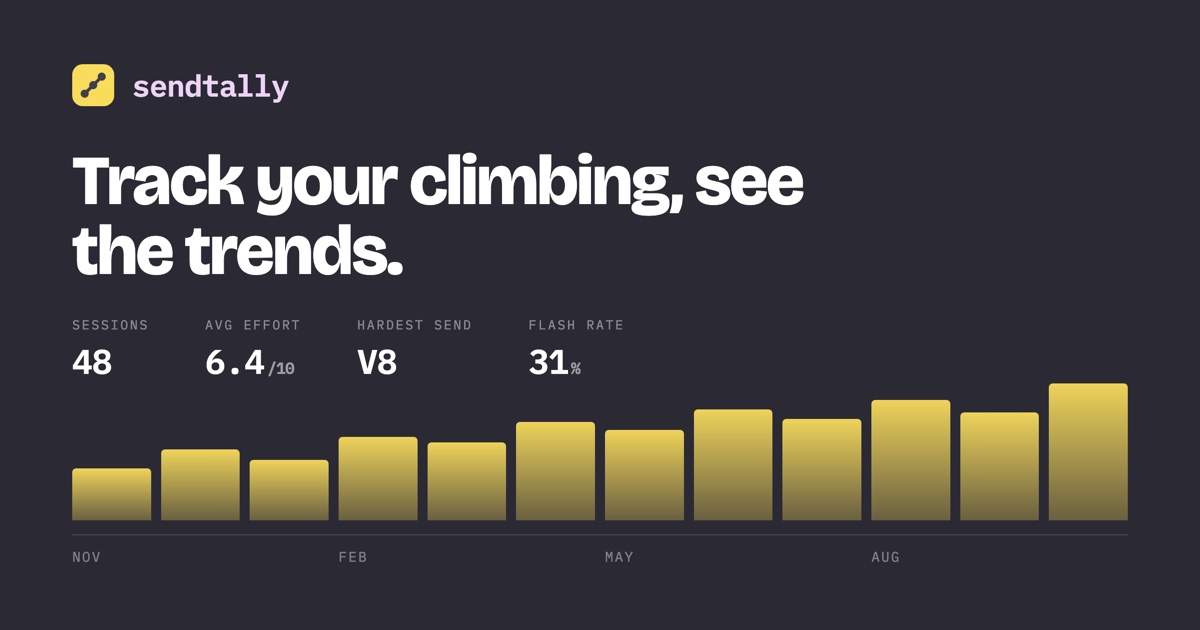
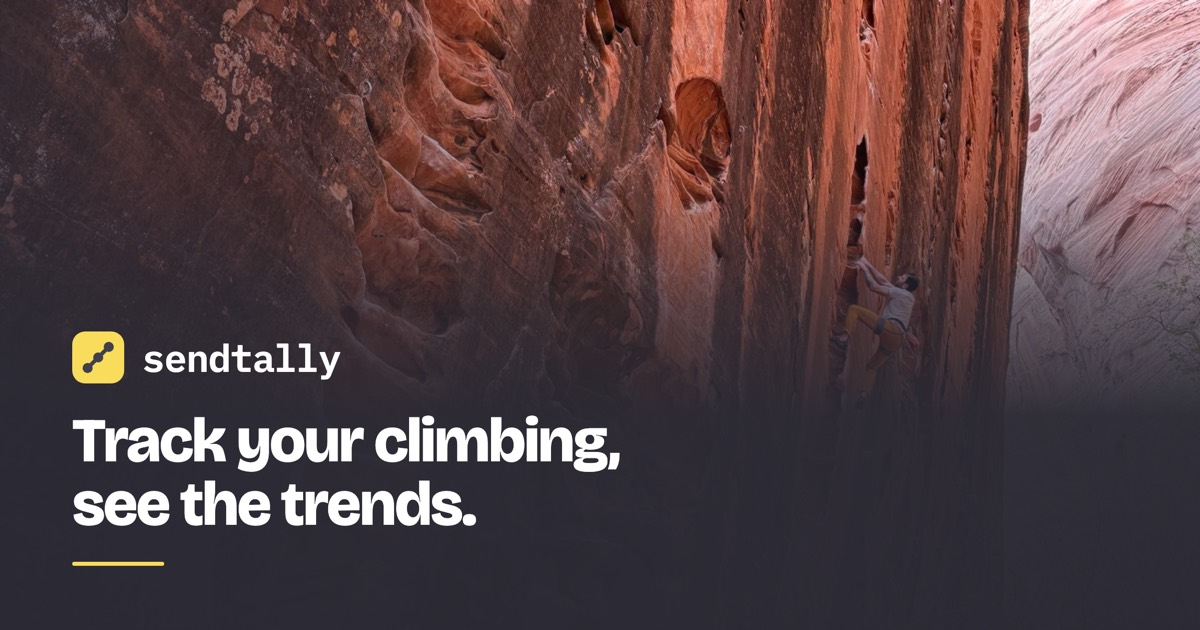
feat(web): put the brand lockup over the climbing photo in the link unfurl
The unfurl was a flat trend card. This keeps the card branded but gives it
the photo people actually respond to: the sandstone wall full-bleed, a
gunmetal scrim ramping up from the bottom-left, and the mark, wordmark and
headline sitting on it with full contrast.

Claude-Session: https://claude.ai/code/session_01AuwmfQRUtNJf15nRXuXgtG

diff --git a/apps/web/og/card.html b/apps/web/og/card.html
@@ -25,14 +25,46 @@
         overflow: hidden;
       }
       .b {
+        position: relative;
         width: 1200px;
         height: 630px;
         background: #2b2a34;
         color: #ffffff;
         font-family: "IBM Plex Sans", system-ui, sans-serif;
-        padding: 64px 72px;
-        display: flex;
-        flex-direction: column;
+        overflow: hidden;
+      }
+      .photo {
+        position: absolute;
+        inset: 0;
+        width: 100%;
+        height: 100%;
+        object-fit: cover;
+        object-position: 62% 72%;
+      }
+      .scrim {
+        position: absolute;
+        inset: 0;
+        background:
+          linear-gradient(
+            to top,
+            rgba(43, 42, 52, 0.99) 0%,
+            rgba(43, 42, 52, 0.97) 34%,
+            rgba(43, 42, 52, 0.7) 52%,
+            rgba(43, 42, 52, 0.18) 72%,
+            rgba(43, 42, 52, 0) 100%
+          ),
+          linear-gradient(
+            to right,
+            rgba(43, 42, 52, 0.72) 0%,
+            rgba(43, 42, 52, 0.12) 48%,
+            rgba(43, 42, 52, 0) 70%
+          );
+      }
+      .plate {
+        position: absolute;
+        left: 72px;
+        right: 72px;
+        bottom: 64px;
       }
       .lockup {
         display: flex;
@@ -42,117 +74,61 @@
       .wordmark {
         font-family: "IBM Plex Mono", monospace;
         font-weight: 600;
-        font-size: 30px;
+        font-size: 38px;
         letter-spacing: -0.02em;
-        color: #eed3f8;
+        color: #ffffff;
       }
       .b-head {
         font-family: "Bricolage Grotesque", "IBM Plex Sans", sans-serif;
         font-weight: 800;
-        font-size: 70px;
-        line-height: 1;
+        font-size: 62px;
+        line-height: 1.02;
         letter-spacing: -0.03em;
-        margin: 40px 0 0;
-        max-width: 17ch;
+        margin: 26px 0 0;
+        max-width: 16ch;
+        text-wrap: balance;
       }
-      .b-stats {
-        display: flex;
-        gap: 56px;
-        margin-top: 30px;
-      }
-      .k {
+      .b-sub {
         font-family: "IBM Plex Mono", monospace;
-        font-size: 13px;
+        font-size: 17px;
         letter-spacing: 0.14em;
         text-transform: uppercase;
-        color: rgba(255, 255, 255, 0.45);
+        color: rgba(255, 255, 255, 0.62);
+        margin-top: 22px;
       }
-      .v {
-        font-family: "IBM Plex Mono", monospace;
-        font-weight: 600;
-        font-size: 34px;
-        letter-spacing: -0.02em;
-        margin-top: 6px;
-        font-variant-numeric: tabular-nums;
-      }
-      .v .u {
-        font-size: 16px;
-        opacity: 0.55;
-        margin-left: 3px;
-      }
-      .b-chart {
-        margin-top: auto;
-        display: flex;
-        align-items: flex-end;
-        gap: 10px;
-        height: 210px;
-      }
-      .b-chart i {
-        flex: 1;
-        border-radius: 4px 4px 0 0;
-        background: linear-gradient(180deg, rgba(249, 220, 92, 0.95), rgba(249, 220, 92, 0.3));
-      }
-      .b-axis {
-        margin-top: 14px;
-        display: grid;
-        grid-template-columns: repeat(12, 1fr);
-        gap: 10px;
-        font-family: "IBM Plex Mono", monospace;
-        font-size: 14px;
-        letter-spacing: 0.1em;
-        color: rgba(255, 255, 255, 0.4);
-        border-top: 1px solid rgba(255, 255, 255, 0.14);
-        padding-top: 12px;
+      .rule {
+        height: 4px;
+        width: 92px;
+        border-radius: 2px;
+        background: #f9dc5c;
+        margin-top: 26px;
       }
     </style>
   </head>
   <body>
     <div class="b">
-      <div class="lockup">
-        <svg viewBox="0 0 32 32" width="42" height="42">
-          <rect width="32" height="32" rx="8" fill="#F9DC5C"></rect>
-          <path
-            d="M9.5 22.5 16 16l6.5-6.5"
-            fill="none"
-            stroke="#403F4C"
-            stroke-width="2.4"
-            stroke-linecap="round"
-            stroke-linejoin="round"
-          ></path>
-          <circle cx="9.5" cy="22.5" r="3.1" fill="#403F4C"></circle>
-          <circle cx="16" cy="16" r="3.1" fill="#403F4C"></circle>
-          <circle cx="22.5" cy="9.5" r="3.1" fill="#403F4C"></circle>
-        </svg>
-        <span class="wordmark">sendtally</span>
-      </div>
-      <h1 class="b-head">Track your climbing, see the trends.</h1>
-      <div class="b-stats">
-        <div>
-          <div class="k">Sessions</div>
-          <div class="v">48</div>
+      <img class="photo" src="../public/images/landing/band.jpg" alt="" />
+      <div class="scrim"></div>
+      <div class="plate">
+        <div class="lockup">
+          <svg viewBox="0 0 32 32" width="52" height="52">
+            <rect width="32" height="32" rx="8" fill="#F9DC5C"></rect>
+            <path
+              d="M9.5 22.5 16 16l6.5-6.5"
+              fill="none"
+              stroke="#403F4C"
+              stroke-width="2.4"
+              stroke-linecap="round"
+              stroke-linejoin="round"
+            ></path>
+            <circle cx="9.5" cy="22.5" r="3.1" fill="#403F4C"></circle>
+            <circle cx="16" cy="16" r="3.1" fill="#403F4C"></circle>
+            <circle cx="22.5" cy="9.5" r="3.1" fill="#403F4C"></circle>
+          </svg>
+          <span class="wordmark">sendtally</span>
         </div>
-        <div>
-          <div class="k">Avg effort</div>
-          <div class="v">6.4<span class="u">/10</span></div>
-        </div>
-        <div>
-          <div class="k">Hardest send</div>
-          <div class="v">V8</div>
-        </div>
-        <div>
-          <div class="k">Flash rate</div>
-          <div class="v">31<span class="u">%</span></div>
-        </div>
-      </div>
-      <div class="b-chart">
-        <i style="height: 38%"></i><i style="height: 52%"></i><i style="height: 44%"></i
-        ><i style="height: 61%"></i> <i style="height: 57%"></i><i style="height: 72%"></i
-        ><i style="height: 66%"></i><i style="height: 81%"></i> <i style="height: 74%"></i
-        ><i style="height: 88%"></i><i style="height: 79%"></i><i style="height: 100%"></i>
-      </div>
-      <div class="b-axis">
-        <span>NOV</span><span></span><span></span><span>FEB</span><span></span><span></span
-        ><span>MAY</span><span></span><span></span><span>AUG</span><span></span><span></span>
+        <h1 class="b-head">Track your climbing, see the trends.</h1>
+        <div class="rule"></div>
       </div>
     </div>
   </body>
